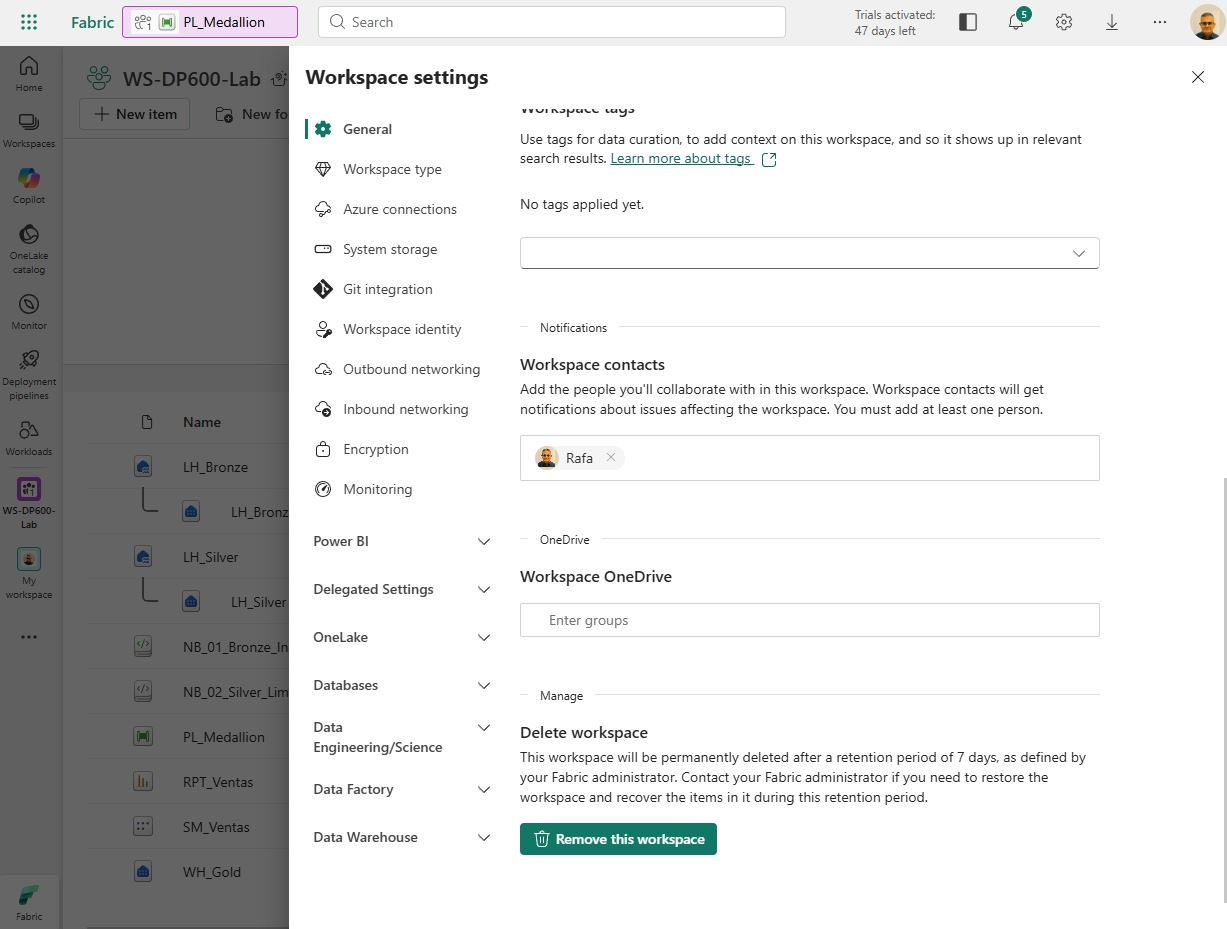
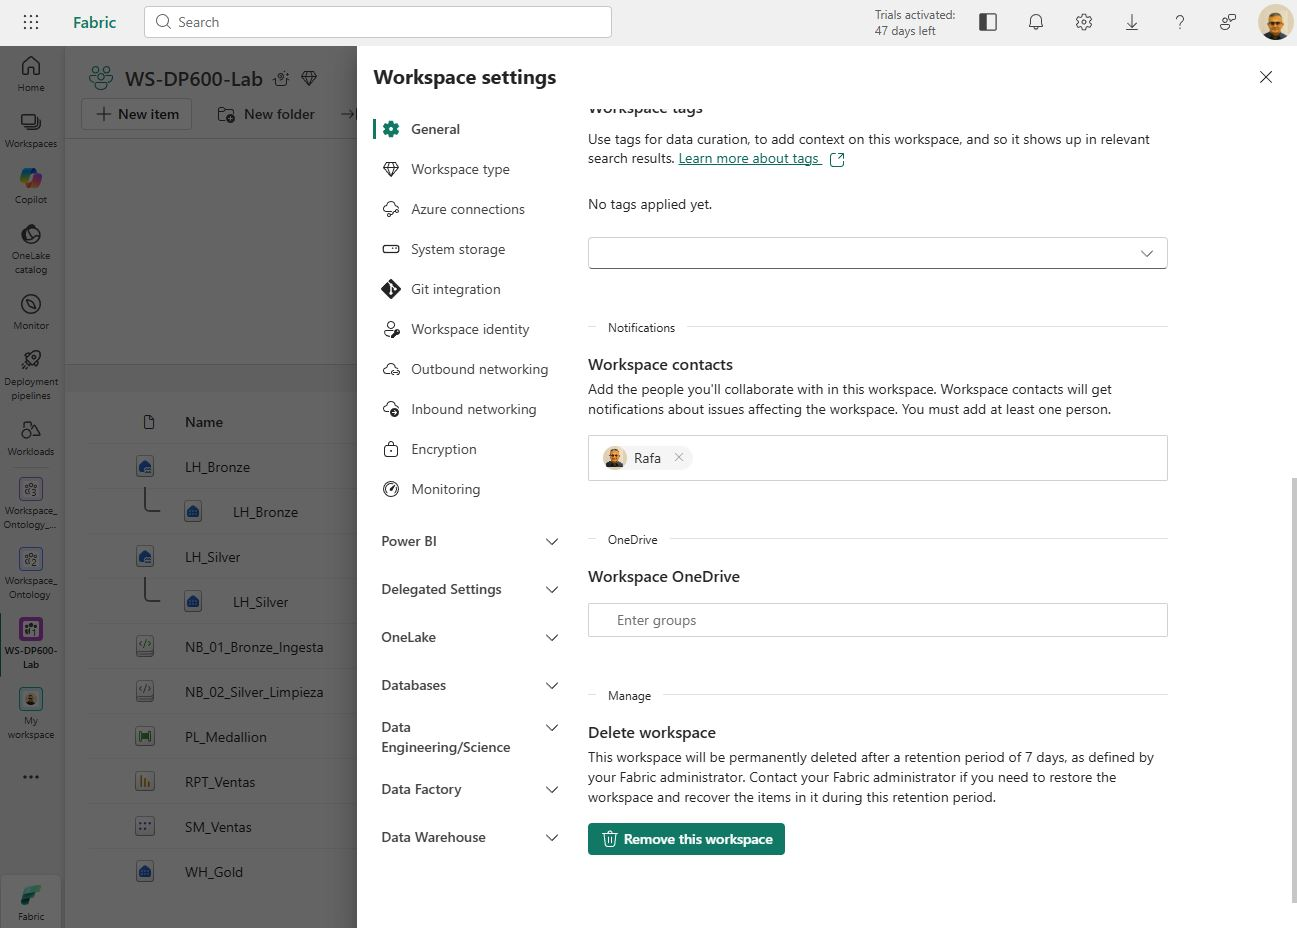
P003

diff --git a/DP-700T00-A_Implementación_soluciones_ingeniería_datos_en_Microsoft_Fabric/DP-700_Lab/Lab_P003_End_to_End_Fabric/DP-700_P003_End_to_End_Fabric.md b/DP-700T00-A_Implementación_soluciones_ingeniería_datos_en_Microsoft_Fabric/DP-700_Lab/Lab_P003_End_to_End_Fabric/DP-700_P003_End_to_End_Fabric.md
@@ -1445,6 +1445,8 @@ Desde `SM_Ventas` → New **report → Start from scratch**. Nombre: `RPT_Ventas
 
 ![089b_Teams_0](images/089b_Teams_0.JPG)
 
+![089c_Teams_0](images/089c_Teams_0.JPG)
+
 <br>
 
 ---
